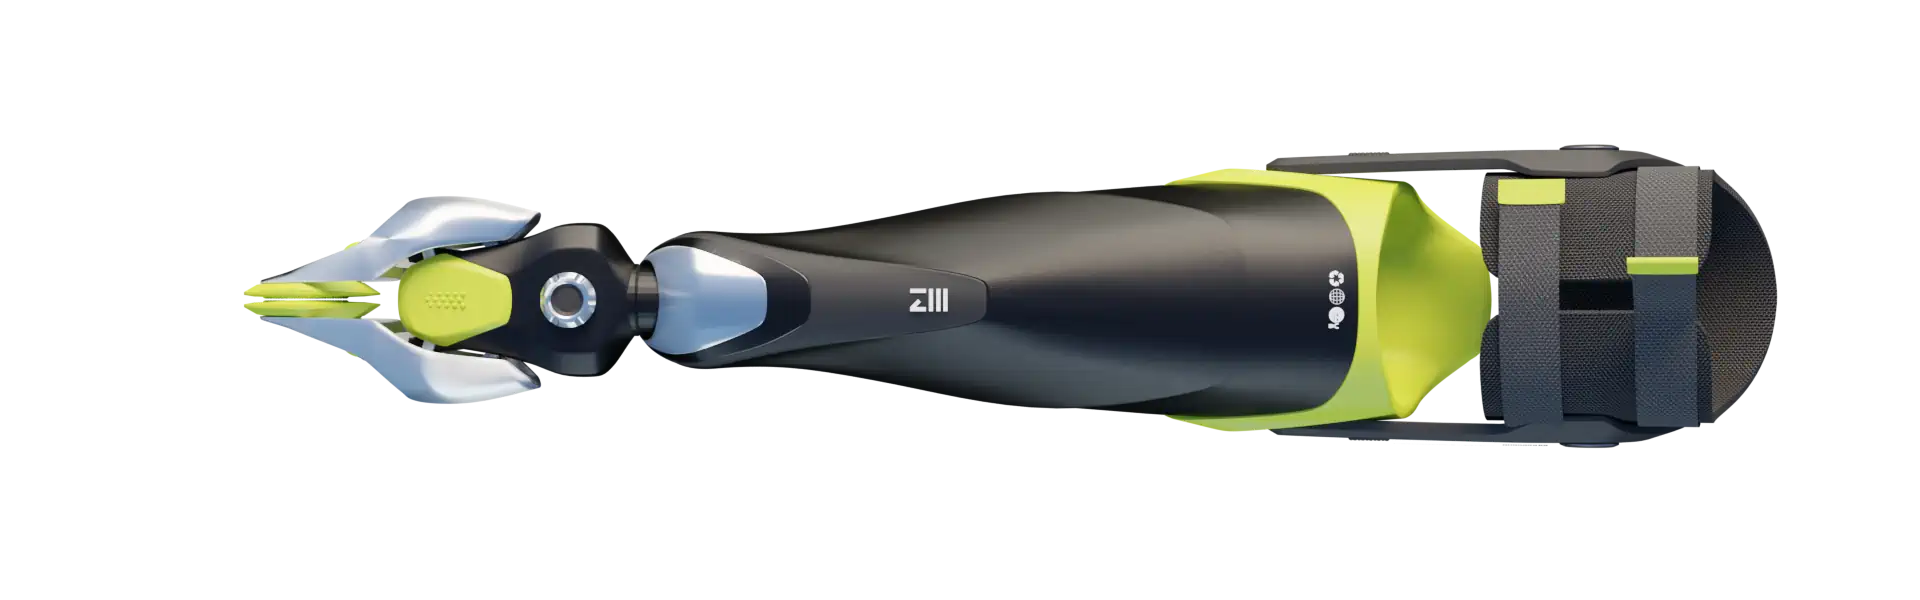
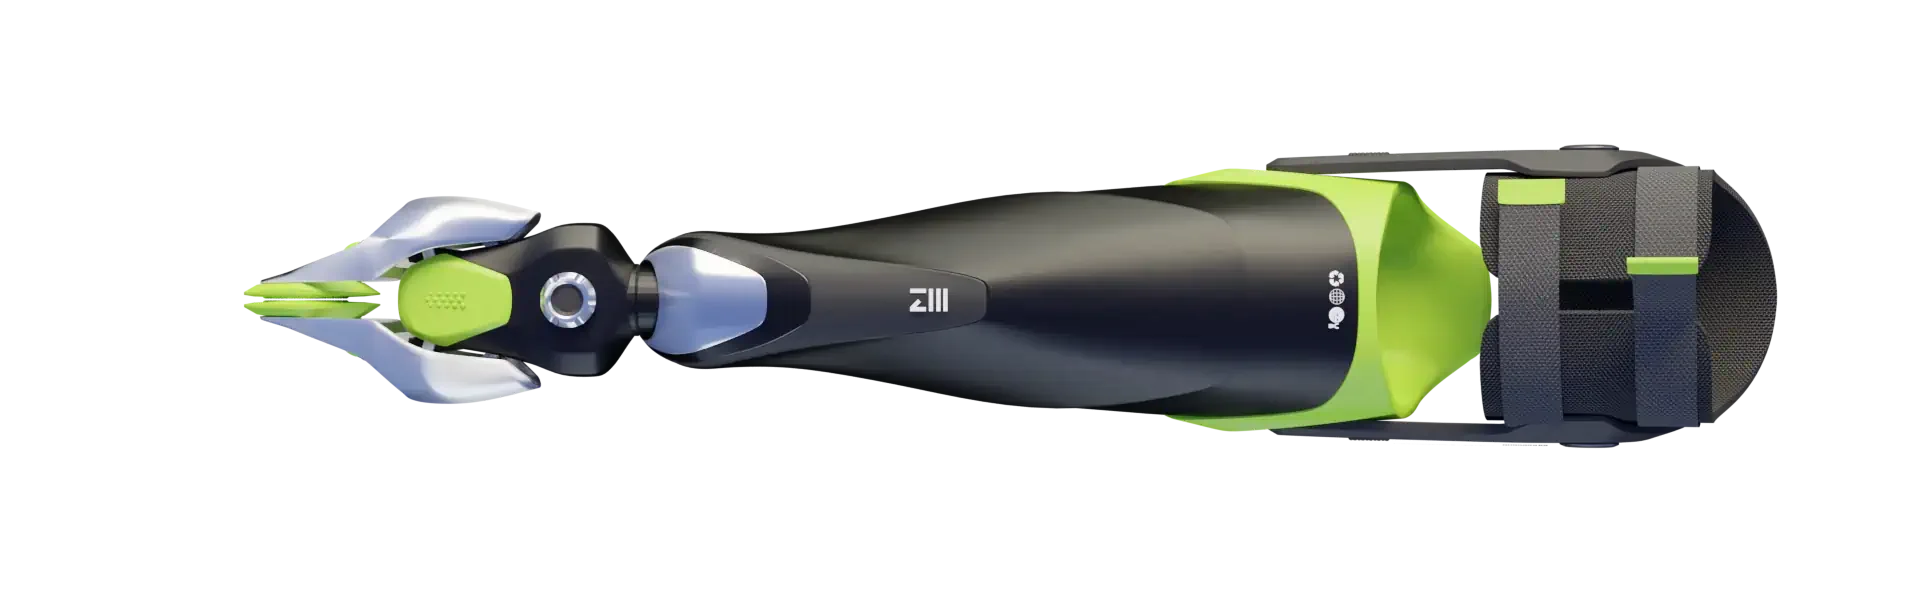
Update image assets and apply CSS filter: Replaced multiple image files with updated versions for better quality. Added hue-rotate filter to PreviewBlock styles for enhanced visual appeal.

Changed region(s): [[0.6562, 0.3, 0.7812, 0.69], [0.125, 0.42, 0.2812, 0.57]]

diff --git a/components/PreviewBlock/PreviewBlock.module.css b/components/PreviewBlock/PreviewBlock.module.css
@@ -57,6 +57,7 @@
     object-position: center center;
     overflow: hidden;
     z-index: -1;
+    filter: hue-rotate(12deg);
 }
 
 .preview__image {
